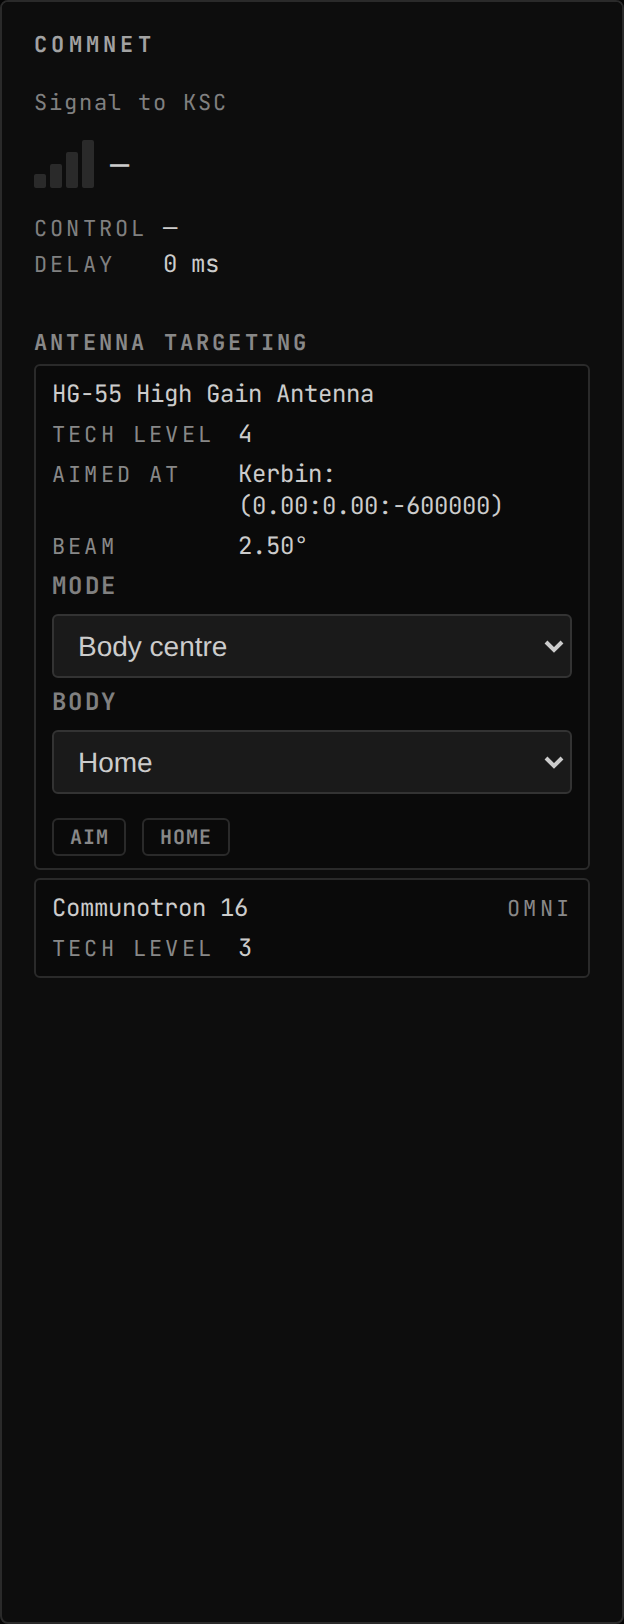
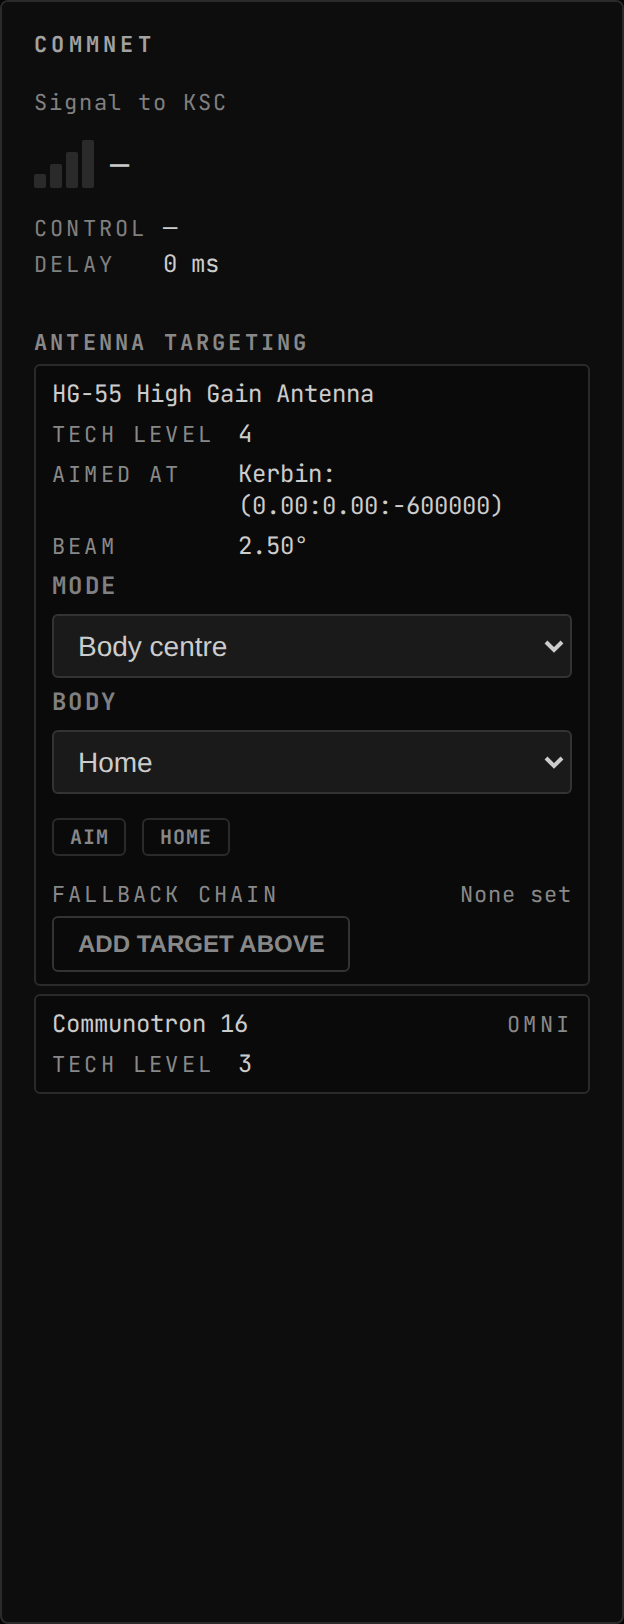
chore: regenerate Uplink pages

Changed region(s): [[0.0609, 0.5234, 0.9439, 0.6773], [0.7308, 0.5234, 0.8221, 0.5542], [0.0304, 0.6158, 0.0609, 0.6466]]

diff --git a/mod/GonogoRealAntennasUplink/client/README.md b/mod/GonogoRealAntennasUplink/client/README.md
@@ -18,6 +18,7 @@ Elects RealAntennas as the comms backend when it is installed, so the comms read
 | `comms.dataRate` | `CommsDataRate` | lossy-latest | true-now |
 | `comms.linkMargin` | `CommsLinkMargin` | lossy-latest | true-now |
 | `comms.linkQuality` | `CommsLinkQuality` | lossy-latest | true-now |
+| `realantennas.antennaChains` | `RealAntennasAntennaChain[]` | lossy-latest | delayed |
 | `realantennas.antennas` | `RealAntennasAntennaState[]` | lossy-latest | delayed |
 | `realantennas.hopRates` | `RealAntennasHopRate[]` | lossy-latest | true-now |
 | `realantennas.available` | – | lossy-latest | true-now |
@@ -25,18 +26,22 @@ Elects RealAntennas as the comms backend when it is installed, so the comms read
 | Payload | Fields |
 | --- | --- |
 | `RealAntennasHopExt` | `band` text, `beamwidth` °, `codingRate` ratio, `encoder` text, `modulationBits` count, `powerDrawEc` units/s, `requiredEbN0` dB, `reverseBitsPerSec` bit/s, `techLevel` count |
+| `RealAntennasTargetStep` | `altitude` m, `azimuth` °, `bodyName` text, `elevation` °, `forward` °, `latitude` °, `longitude` °, `mode` text, `vesselId` id |
+| `RealAntennasTargetStepArgs` | `altitude` m, `azimuth` °, `bodyName` text, `elevation` °, `forward` °, `latitude` °, `longitude` °, `mode` text, `vesselId` id |
 
 ## Commands
 
 | Command | Args | Result |
 | --- | --- | --- |
 | `realantennas.antenna.target` | `RealAntennasTargetArgs` | `CommandResult` |
+| `realantennas.antenna.targetChain` | `RealAntennasTargetChainArgs` | `CommandResult` |
 | `realantennas.antenna.targetHome` | `RealAntennasAntennaArgs` | `CommandResult` |
 
 | Args | Fields |
 | --- | --- |
 | `RealAntennasAntennaArgs` | `antennaId` id |
 | `RealAntennasTargetArgs` | `altitude` m, `antennaId` id, `azimuth` °, `bodyName` text, `elevation` °, `forward` °, `latitude` °, `longitude` °, `mode` text, `vesselId` id |
+| `RealAntennasTargetChainArgs` | `antennaId` id, `settleSeconds` s, `steps` RealAntennasTargetStepArgs[] |
 
 ## Augments
 
@@ -44,7 +49,7 @@ Elects RealAntennas as the comms backend when it is installed, so the comms read
 | --- | --- | --- | --- | --- | --- |
 | `realantennas-comm-signal-badge` | `comm-signal.badges` | `comms.dataRate`, `comms.path` | only while `realantennas` | 0 |  |
 | `realantennas-comm-signal-section` | `comm-signal.sections` | `comms.linkMargin`, `comms.path` | only while `realantennas` | 3 |  |
-| `realantennas-comm-signal-antenna-targets` | `comm-signal.sections` | `realantennas.antennas`, `system.bodies`, `system.vessels` | only while `realantennas` | 1 |  |
+| `realantennas-comm-signal-antenna-targets` | `comm-signal.sections` | `realantennas.antennas`, `realantennas.antennaChains`, `system.bodies`, `system.vessels` | only while `realantennas` | 1 |  |
 
 ![RealAntennas installed but the link is dark: the budget section withholds itself entirely rather than showing a labelled blank](docs/assets/ra-installed-nothing-to-report--default.png)
 
